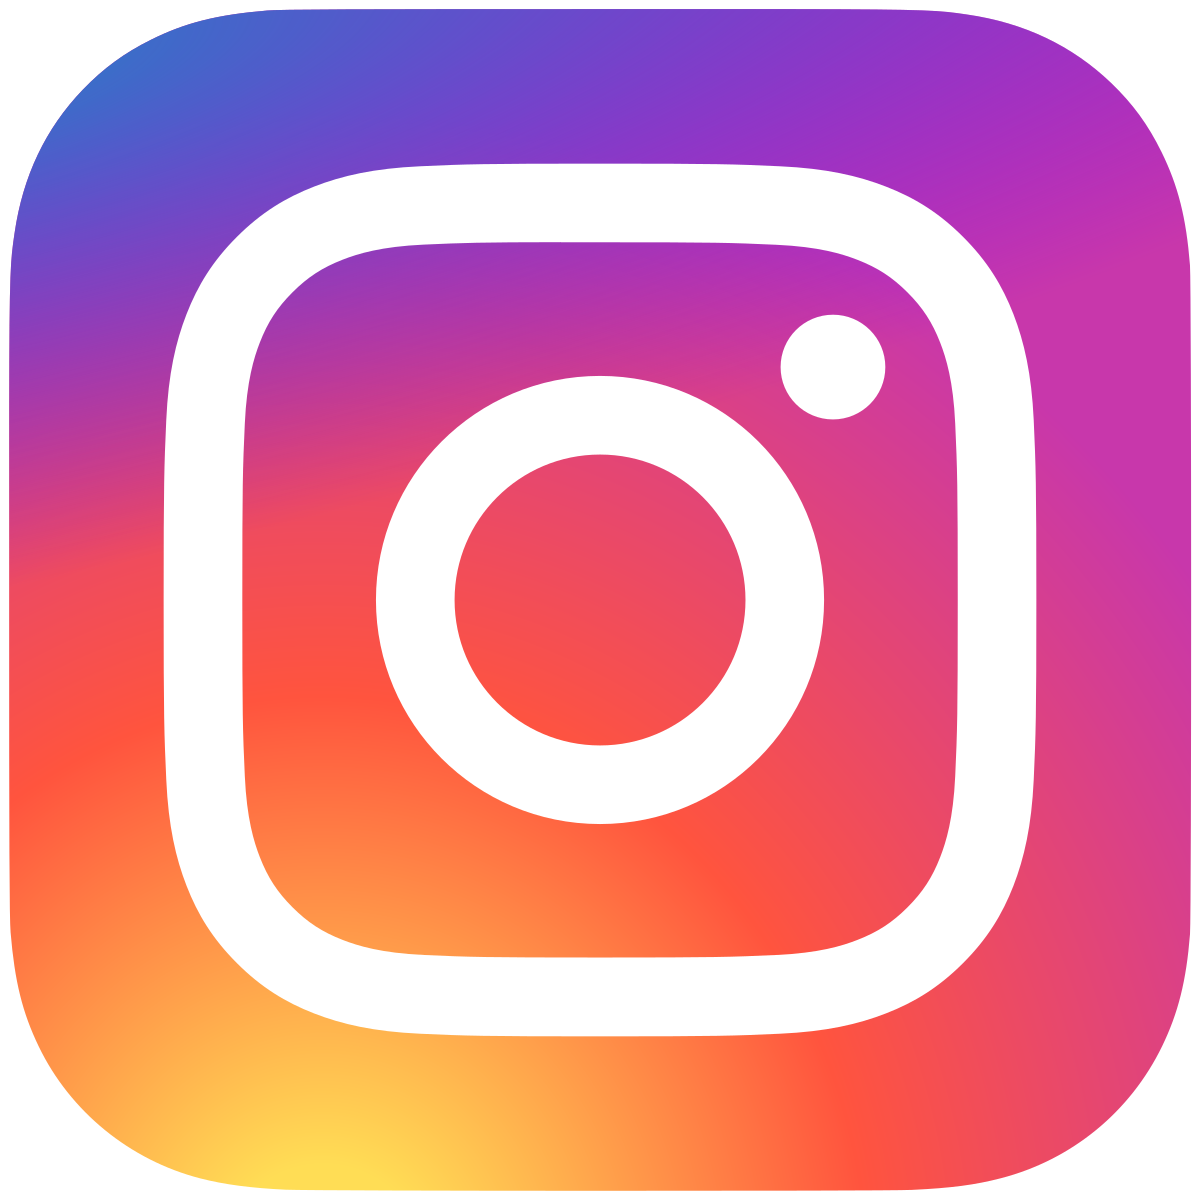
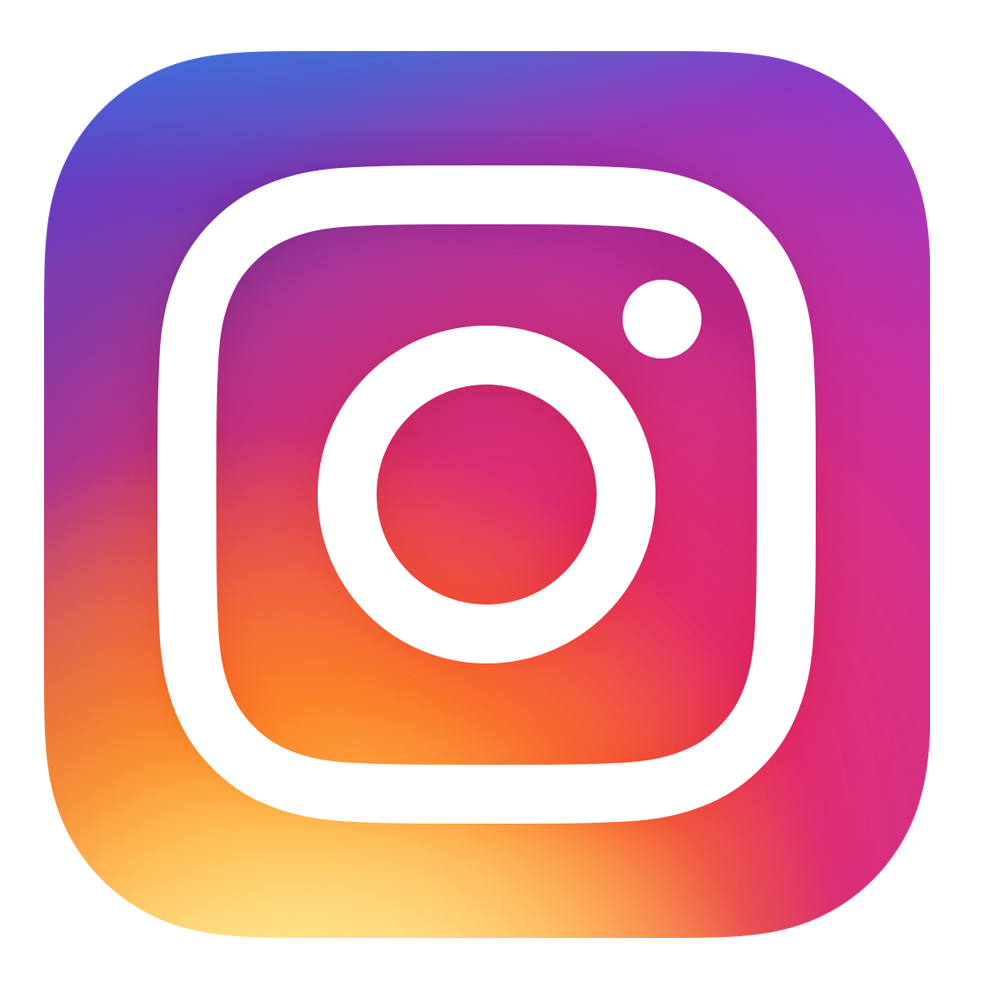
big update

diff --git a/index.html b/index.html
@@ -4,6 +4,9 @@
 <link rel="stylesheet" href="style.css">
     </head>
     <body>
+      <div class="logo">
+           
+       </div>
         <div class="topnav">
             <ul>
             <li><a class="active" href="index.html">homepage</a></li>
@@ -11,11 +14,9 @@
             <li><a href="about.html">about</a></li>
             <li><a href="contact.html">contact</a></li>
             <input type="text" placeholder="Search">
+            <a href="index.html"><img class="logo" src="insta.png" height="43px" width="43px"></a>
             
             </ul>
-        </div>
-        <div class="logo">
-            
         </div>
       <div class="header">
     <h1>homepage</h1>

diff --git a/style.css b/style.css
@@ -4,6 +4,8 @@ body  {
     background-color: #21242b;
 } 
 
+
+
  ul {
     list-style-type: none;
     margin: 0px;
@@ -64,6 +66,7 @@ input {
    text-align: center;
    font-family: Impact, Haettenschweiler, 'Arial Narrow Bold', sans-serif;
    color: white;
+   cursor: pointer;
 }
 
 
@@ -96,5 +99,9 @@ input {
       border-radius: 15px;
   }
     
-
+  .logo {
+    float: left;
+    position: relative;
+    margin-left: 566px;
+}
    

diff --git a/about.html b/about.html
@@ -11,7 +11,7 @@
             <li><a class="active" href="about.html">about</a></li>
             <li><a href="contact.html">contact</a></li>
             <input type="text" placeholder="Search">
-            
+            <a href="index.html"><img class="logo" src="insta.png" height="43px" width="43px"></a>
             </ul>
         </div>
       <div class="header">

diff --git a/contact.html b/contact.html
@@ -11,7 +11,7 @@
             <li><a href="about.html">about</a></li>
             <li><a class="active" href="contact.html">contact</a></li>
             <input type="text" placeholder="Search">
-            
+            <a href="index.html"><img class="logo" src="insta.png" height="43px" width="43px"></a>
             </ul>
         </div>
       <div class="header">

diff --git a/pictures.html b/pictures.html
@@ -11,7 +11,7 @@
             <li><a href="about.html">about</a></li>
             <li><a href="contact.html">contact</a></li>
             <input type="text" placeholder="Search">
-            
+            <a href="index.html"><img class="logo" src="insta.png" height="43px" width="43px"></a>
             </ul>
         </div>
       <div class="header">
